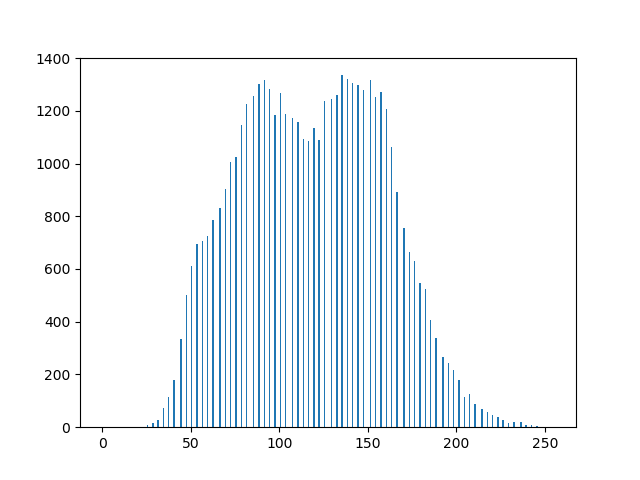
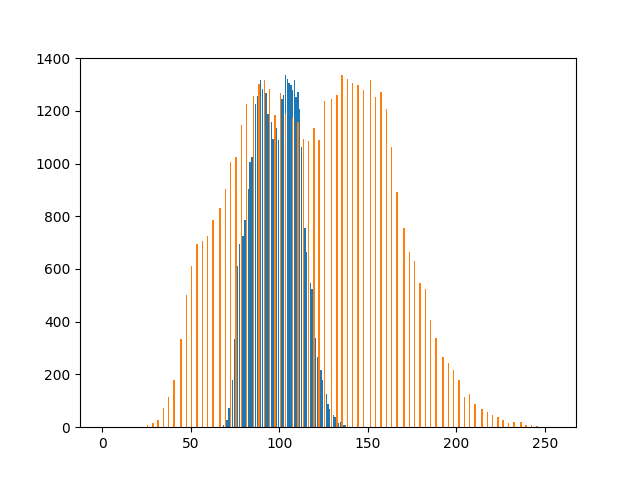
更新第六天的小练习

Changed region(s): [[0.25, 0.1562, 0.7812, 0.9062]]

diff --git a/day7/histhandle.py b/day7/histhandle.py
@@ -1,0 +1,48 @@
+# -*- coding: utf-8 -*-
+# @Time    : 2020/10/28 14:37
+# @Author  : panfei
+# @FileName: histhandle.py
+# @Software: PyCharm
+# @Cnblogs ：https://github.com/kaguyahime
+
+import cv2
+import numpy as np
+import matplotlib.pyplot as plt
+
+
+# histogram manipulation
+def hist_mani(img, m0=152, s0=52):
+	m = np.mean(img)
+	s = np.std(img)
+	print(m)
+	print(s)
+
+	out = img.copy()
+
+	# normalize
+	out = s0 / s * (out - m) + m0
+	out[out < 0] = 0
+	out[out > 255] = 255
+	out = out.astype(np.uint8)
+
+	return out
+
+
+# Read image
+img = cv2.imread("imori_dark.jpg").astype(np.float)
+
+out = hist_mani(img)
+
+
+plt.hist(img.ravel(), bins=255, rwidth=0.8, range=(0, 255))
+plt.hist(out.ravel(), bins=255, rwidth=0.8, range=(0, 255))
+
+# Display histogram
+plt.hist(out.ravel(), bins=255, rwidth=0.8, range=(0, 255))
+plt.savefig("out_his.png")
+plt.show()
+
+# Save result
+cv2.imshow("result", out)
+cv2.waitKey(0)
+cv2.imwrite("out.jpg", out)

diff --git a/day7/histnori.py b/day7/histnori.py
@@ -28,7 +28,7 @@ def hist_normalization(img,a = 0,b = 255):
 if __name__ == '__main__':
     img = cv2.imread('imori_dark.jpg').astype(np.float)
     out = hist_normalization(img)
-
+    plt.hist(img.ravel(), bins=255, rwidth=0.8, range=(0, 255))
     plt.hist(out.ravel(),bins=255,rwidth=0.8,range=(0,255))
     plt.savefig('outhist.png')
     plt.show()
